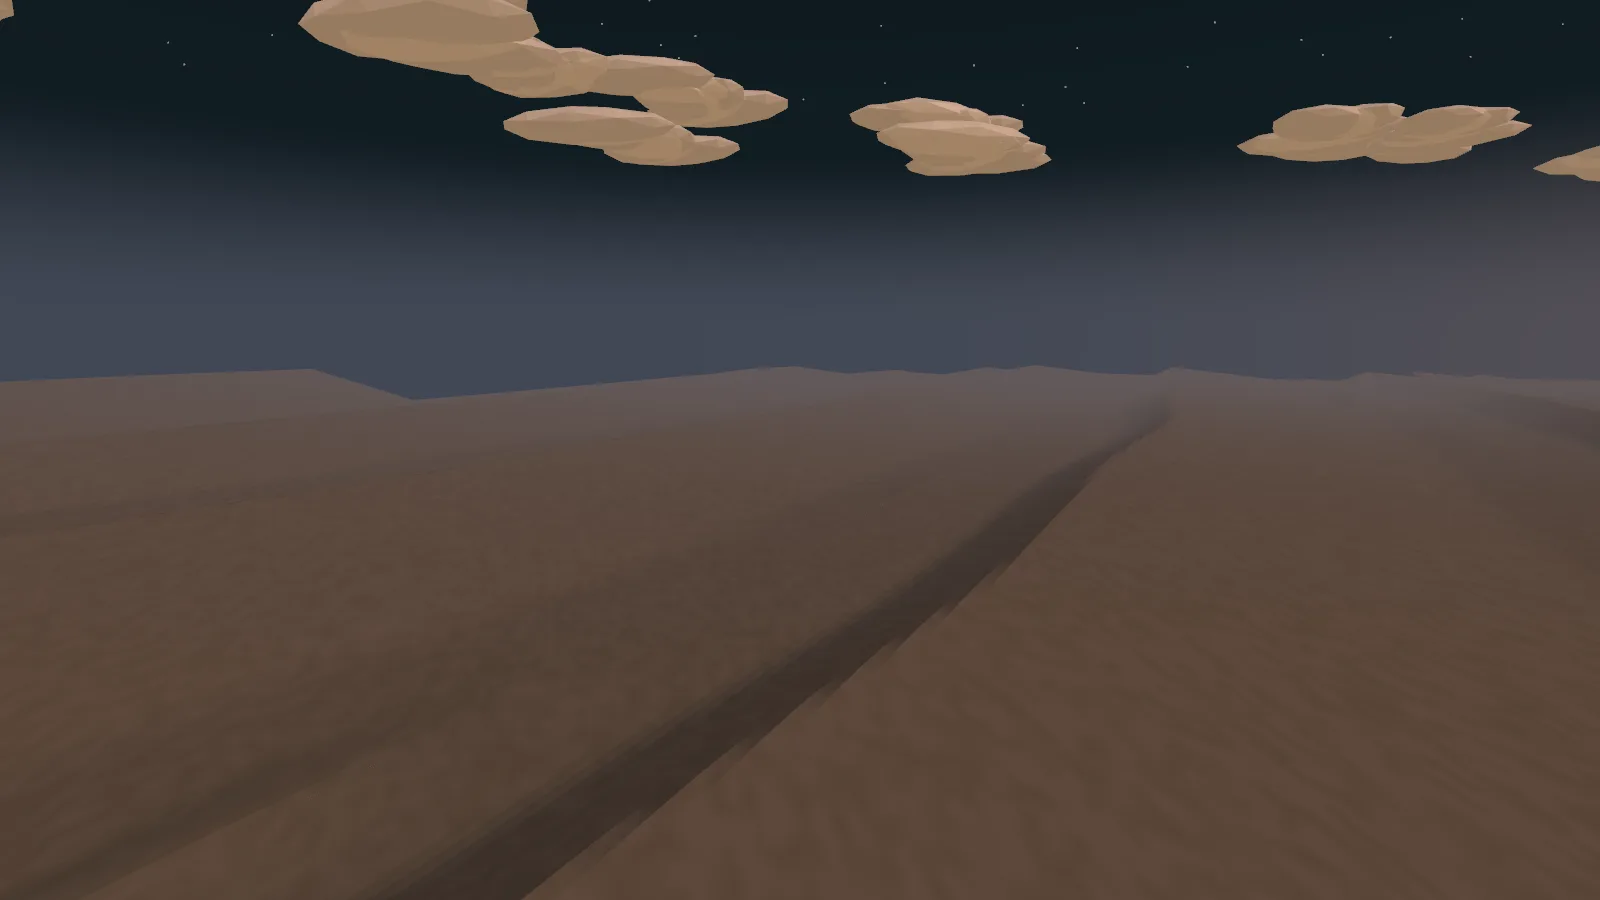
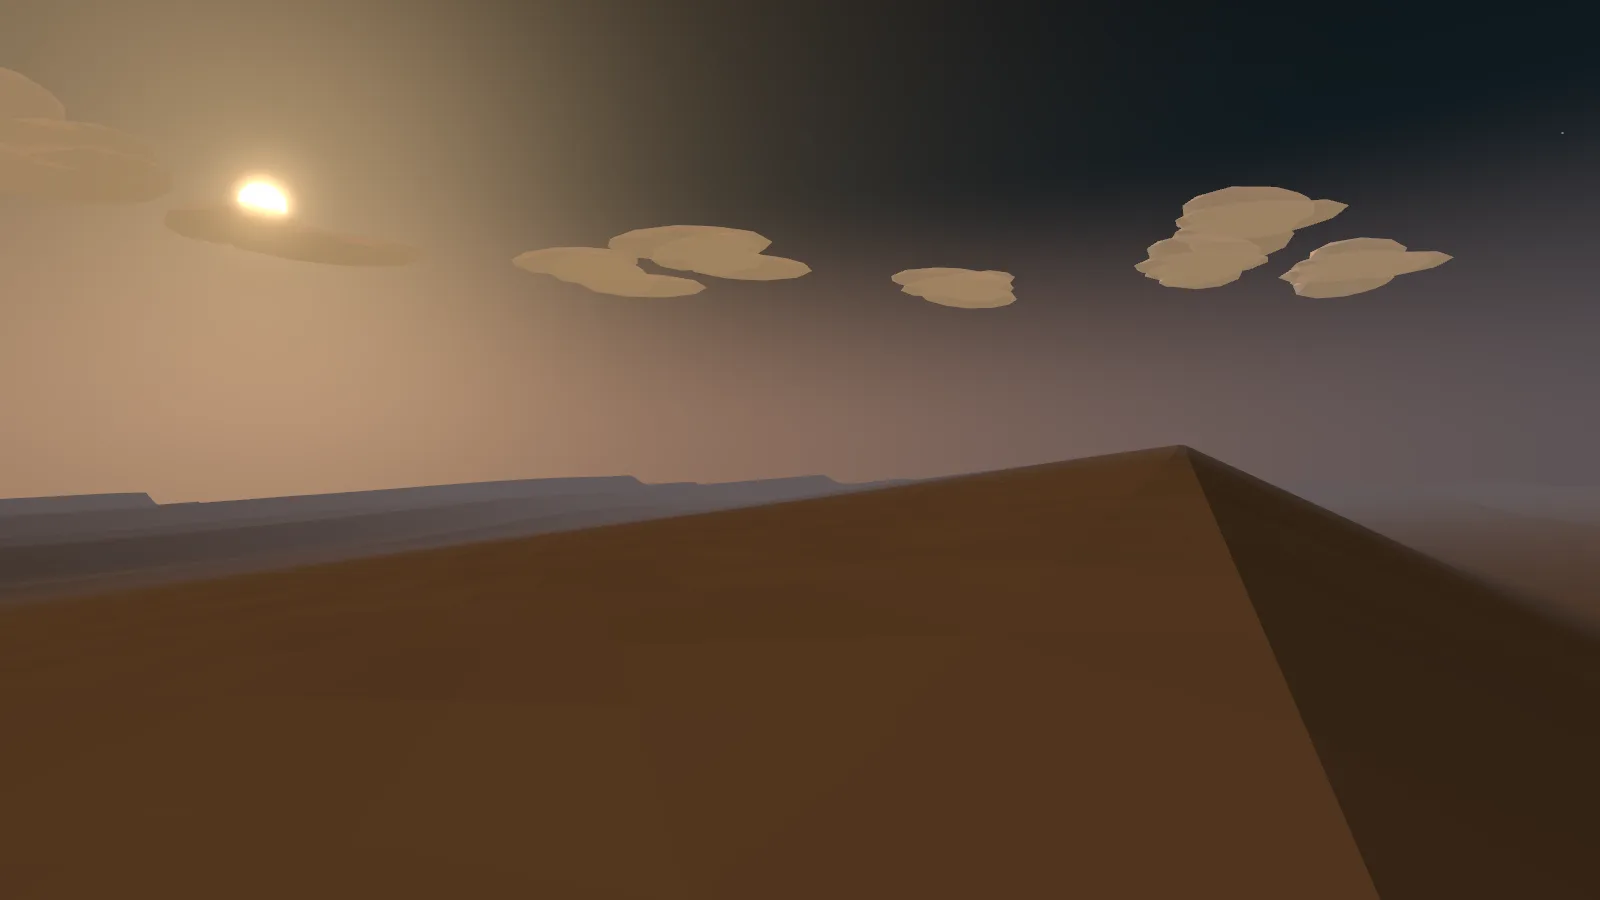
fix: Big dunes menu picture stands on the big crest at dusk
- menu-shots poses the dunes camera on the brink of the 80 m ridge upwind of the spawn, looking along it into the sun: lit windward side, slip face in shade, ridges beyond
- public/menu/dunes.webp re-shot (14 KB); it showed a bare slope from above

diff --git a/scripts/menu-shots.ts b/scripts/menu-shots.ts
@@ -30,7 +30,8 @@ const SPOTS: Partial<Record<WorldKind, Spot>> = {
   alpine: { at: 1895 },
   tundra: {},
   volcano: { camera: { from: [250, 300, 60], to: [-10, 180, -10] } },
-  dunes: { camera: { from: [-300, 120, -600], to: [0, 60, -780] } },
+  // On the brink of the 80 m ridge upwind of the spawn, along it and into the sun: the lit windward side, the slip face in shade.
+  dunes: { camera: { from: [260, 100.6, 349], to: [-160, 98, 573] } },
   icecanyon: { camera: { from: [560, 78, 140], to: [410, 46, 236] } },
   velodrome: {},
 };
